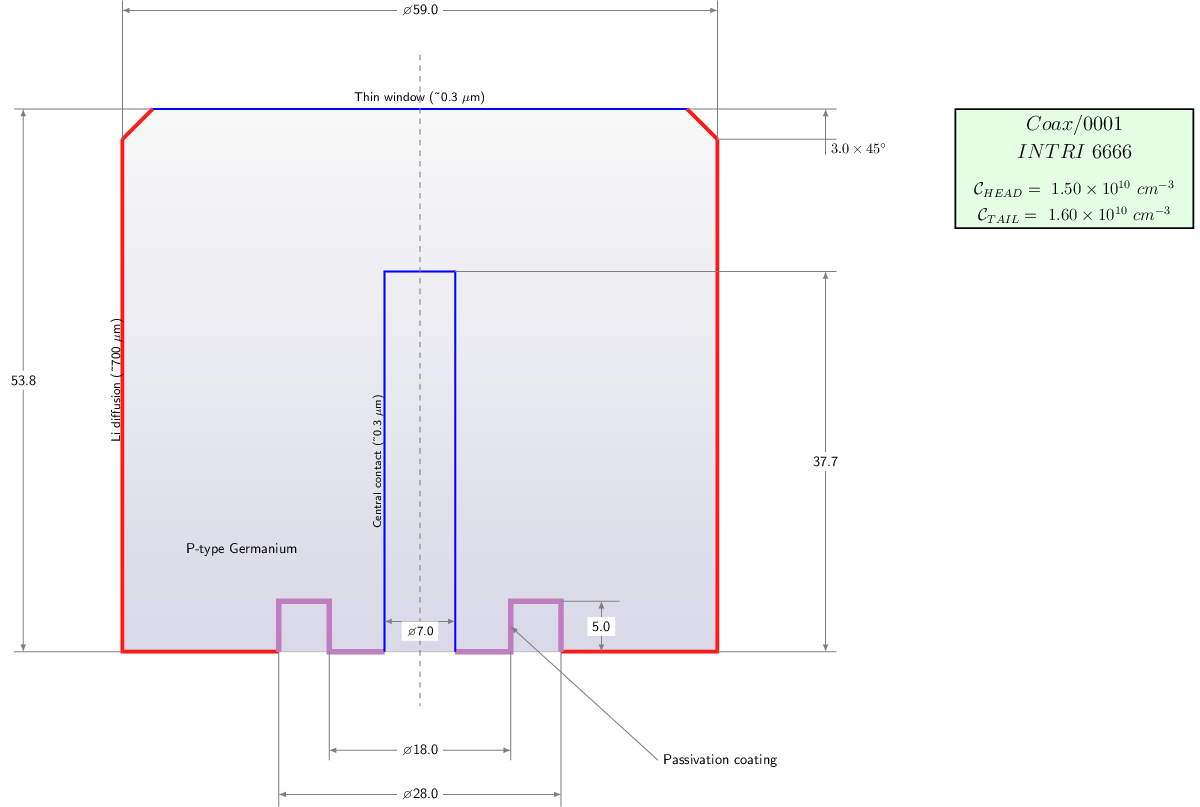
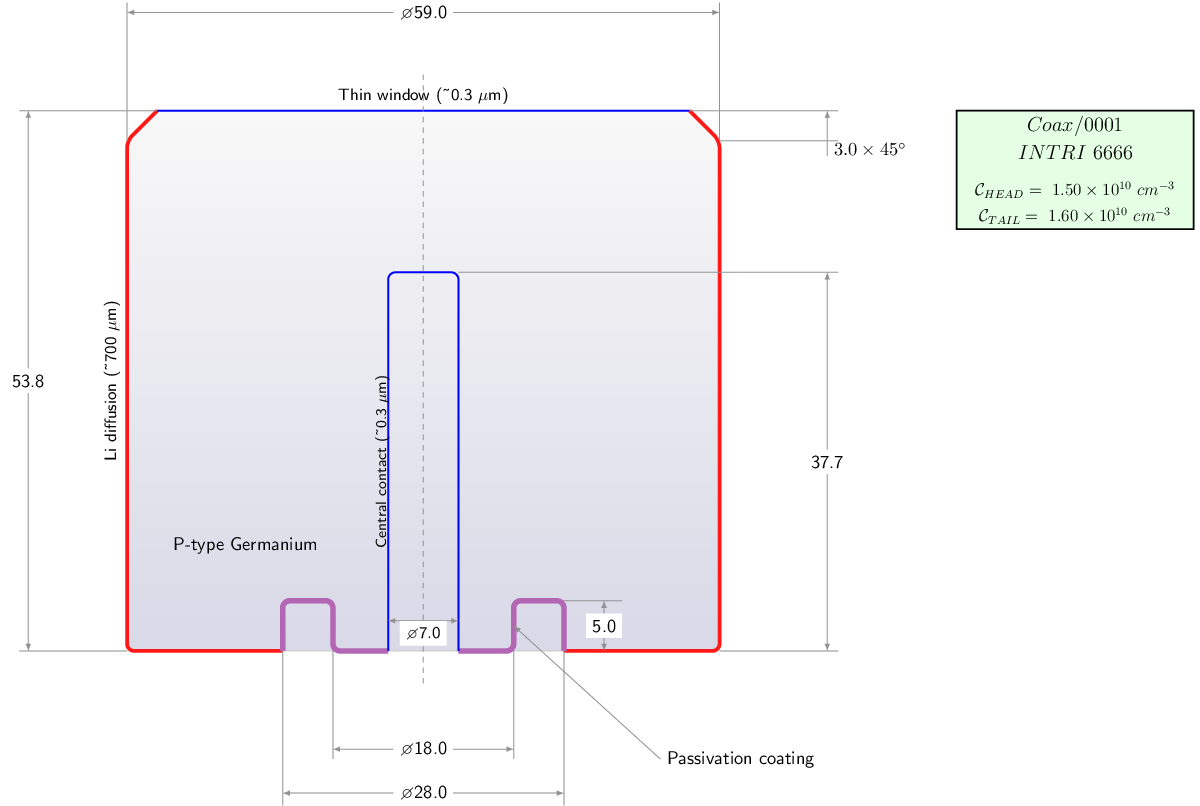
updated example.png

diff --git a/gcd.tex b/gcd.tex
@@ -28,7 +28,7 @@
 \newcommand\Cdepth          {37.7}       % Contact depth
 \newcommand\GrvEx           {28.0}       % Groove ext. diameter
 \newcommand\GrvIn           {18.0}       % Groove int. diameter
-\setboolean{passivated}     {false}       % Passivation? [true|false]
+\setboolean{passivated}     {true}       % Passivation? [true|false]
 \setboolean{thin_window}    {true}       % Thin window? [true|false]
 \setboolean{show_legendbox} {true}       % Show legend box? [true|false]
 % =======================================
@@ -50,7 +50,7 @@
   caption/.style={font=\sffamily,black,scale=1.3},
   lithium/.style={rounded corners,red!90!white,line width=2pt},
   germanium/.style={rounded corners,black!80,line width=1pt},
-  passiv/.style={rounded corners,violet!50!white,line width=3pt},
+  passiv/.style={rounded corners,violet!60!white,line width=3pt},
   in_window/.style={rounded corners,blue,line width=1pt},
 }
 \begin{document}
